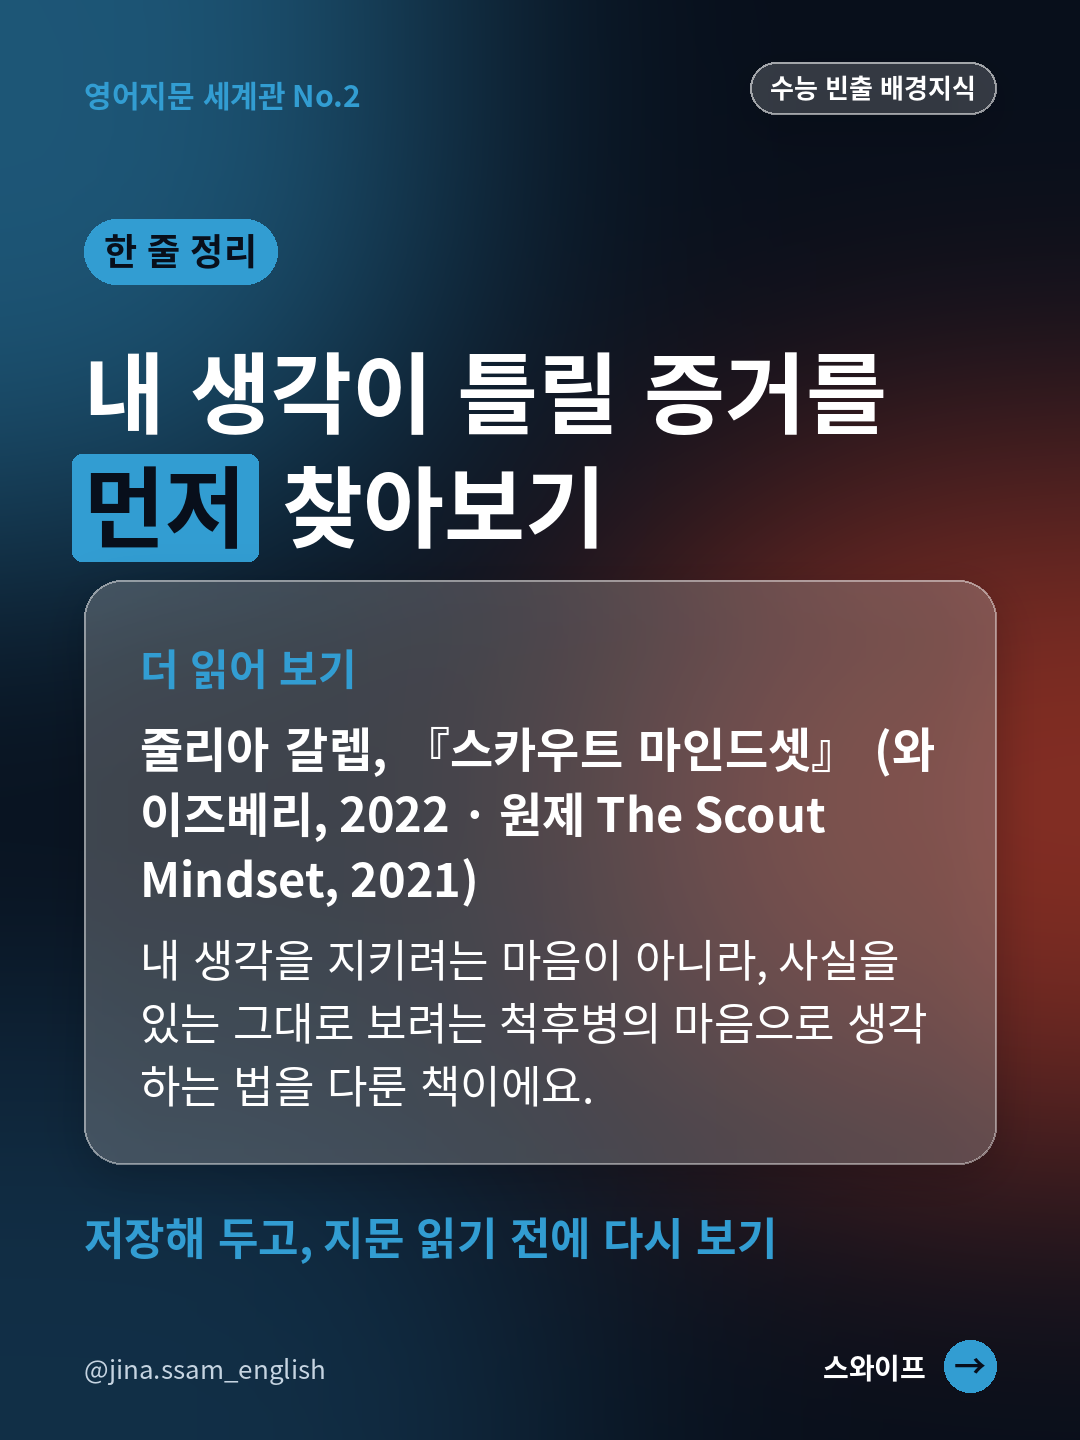
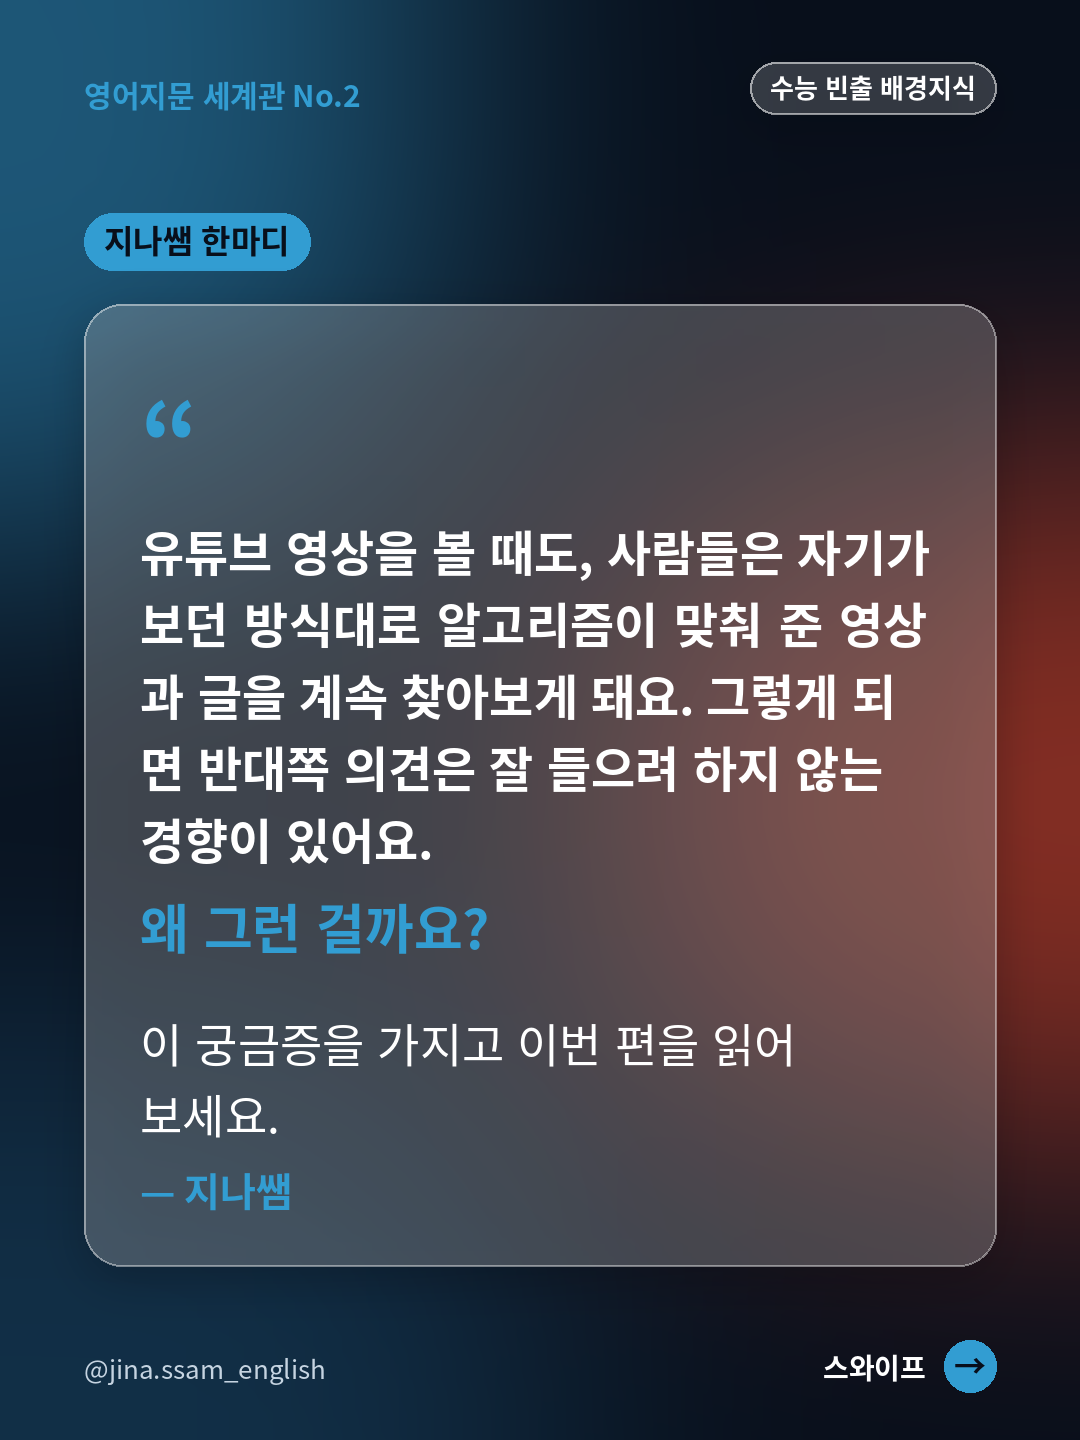
Add 지나쌤 한마디 slide to No.2 (15 glass slides)
Claude-Session: https://claude.ai/code/session_01Wy1t89MoYtcTzxhXFEcNJ8

Changed region(s): [[0.0611, 0.125, 0.9472, 0.9062]]

diff --git a/jina-carousel/glass_no02_confirmation.py b/jina-carousel/glass_no02_confirmation.py
@@ -72,6 +72,14 @@ S.append([Pill('기출 단어 · 2027 수능 29번'),Head([[('이 주제의 ',Fa
   Word('consistent','일관된, ~와 일치하는','Her answer is consistent with what she believes.'),
   Word('evidence','증거','Look at the evidence before you decide.'),
   Word('critically','비판적으로','Read the passage critically.')])
+# 지나쌤 한마디
+S.append([Pill('지나쌤 한마디'),
+  Card([Text('“',90,th.acc,True,lh=0.9),
+        Text('유튜브 영상을 볼 때도, 사람들은 자기가 보던 방식대로 알고리즘이 맞춰 준 영상과 글을 계속 찾아보게 돼요. 그렇게 되면 반대쪽 의견은 잘 들으려 하지 않는 경향이 있어요.',42,bold=True,lh=1.5),
+        Text('왜 그런 걸까요?',46,th.acc,True,lh=1.5),
+        Gap(8),
+        Text('이 궁금증을 가지고 이번 편을 읽어 보세요.',40,lh=1.55),
+        Text('— 지나쌤',34,th.acc,True)])])
 # 12 한 줄 정리
 S.append([Pill('한 줄 정리'),Head(['내 생각이 틀릴 증거를',[('먼저',True),(' 찾아보기',False)]],size=80),
   Card([Text('더 읽어 보기',32,th.acc,True),

diff --git a/jina-carousel/RULES.md b/jina-carousel/RULES.md
@@ -59,7 +59,7 @@
 
 ## 7. 진행 현황 (2026-11-24)
 - No.1 공짜 앱의 비밀(주의 경제): 글라스 12장 + 수준별 지문 11장 + 노션 회차 페이지 완료.
-- No.2 확증 편향의 함정: 글라스 14장 + 수준별 지문 11장 + 노션 회차 페이지 완료. 컬러칩 4. 지나쌤 한마디 답을 받으면 "지나쌤 한마디" 장 1개를 한 줄 정리 앞에 추가하고 노션 페이지에도 넣는다.
+- No.2 확증 편향의 함정: 글라스 15장(지나쌤 한마디 포함) + 수준별 지문 11장 + 노션 회차 페이지 완료. 컬러칩 4.
 - 다음: No.3 (주제 관리표 순서 3번 보몰의 비용 질병). 지나쌤 한마디 질문은 편마다 먼저 보낸다.
 - 기존 6편(배차 간격, 대기 시간의 심리, coopetition, 팃포탯, 오작동 방지, 기본값 효과)은 새 형식으로 다시 만든다.
 

diff --git a/jina-carousel/README.md b/jina-carousel/README.md
@@ -8,7 +8,7 @@
 | `engine.py` | 글라스모피즘 캐러셀 엔진. 글 양에 맞춰 카드 높이가 늘어나고, 여백이 많으면 글씨를 키움 (블록: Pill, Head, Text, Card, Flow, Word, Option, Upside, Stamp) |
 | `glass_no01_attention.py` | No.1 공짜 앱의 비밀 (주제 캐러셀 12장). 새 편은 이 파일을 복사해서 내용만 바꾼다 |
 | `neo_no01_attention.py` | No.1 수준별 지문 네오 브루탈리즘 캐러셀 11장 |
-| `glass_no02_confirmation.py` | No.2 확증 편향의 함정 (주제 캐러셀 14장) |
+| `glass_no02_confirmation.py` | No.2 확증 편향의 함정 (주제 캐러셀 15장) |
 | `neo_no02_confirmation.py` | No.2 수준별 지문 11장 |
 | `data/suneung_sheet_by_question.csv` | 2024~2027 수능 18~45번 주제와 원문 확인 단어 |
 | `output/` | 렌더링 결과 PNG와 캡션 |
